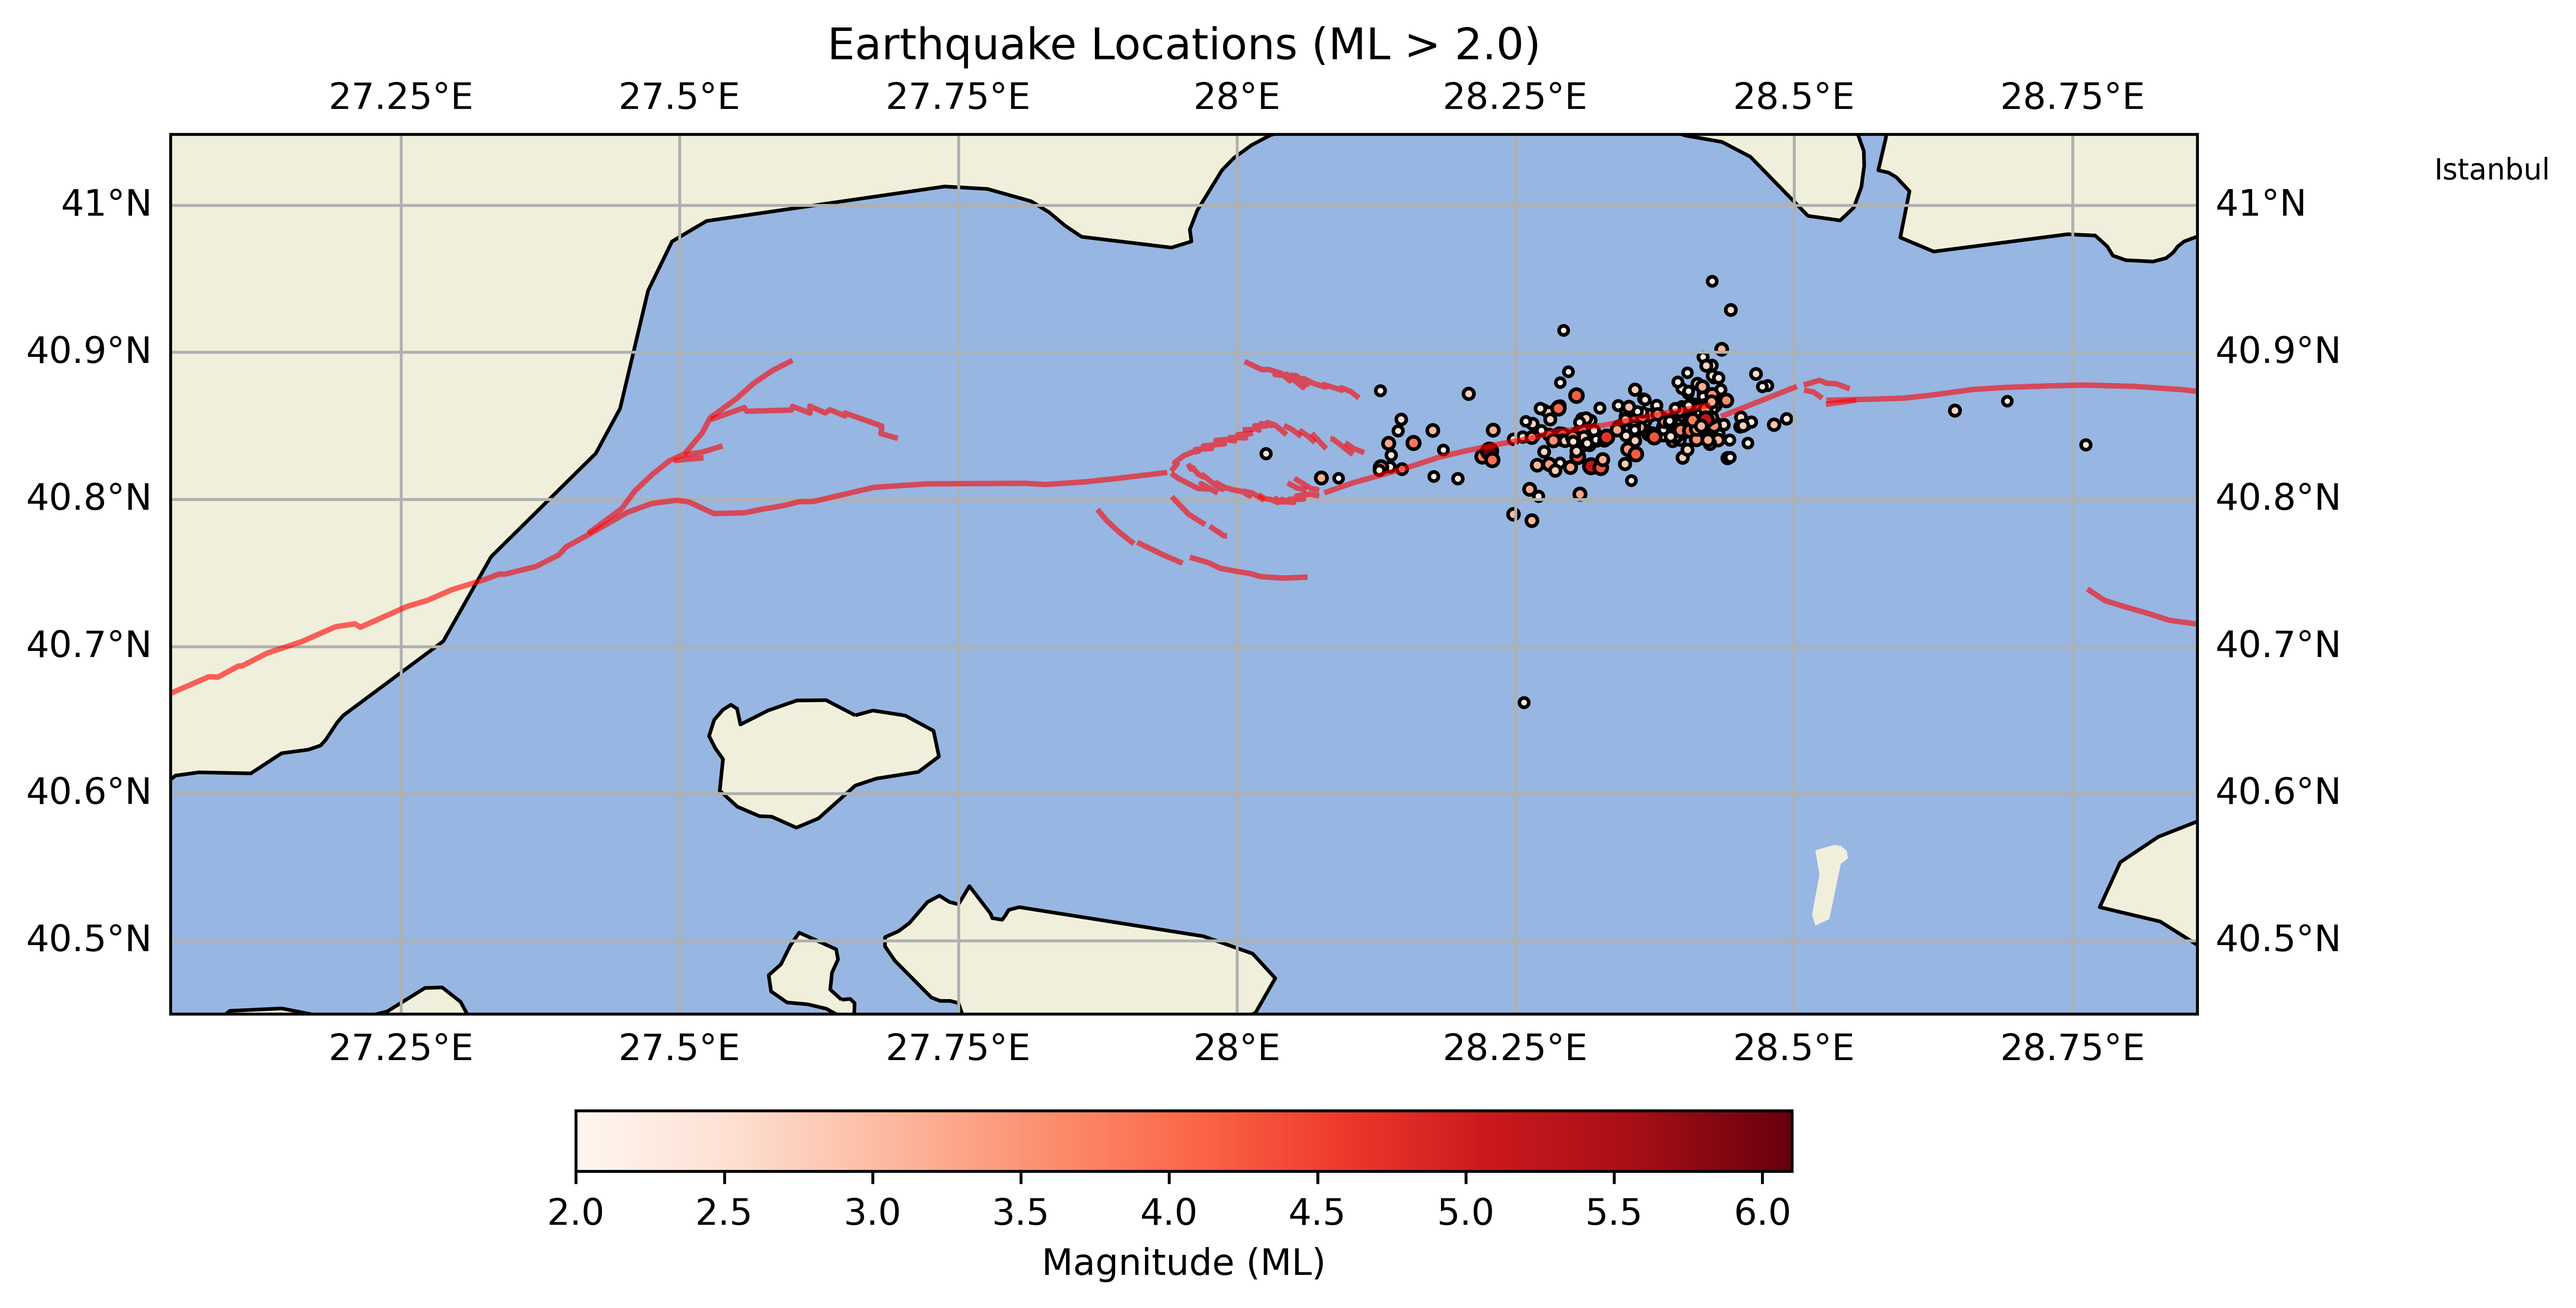
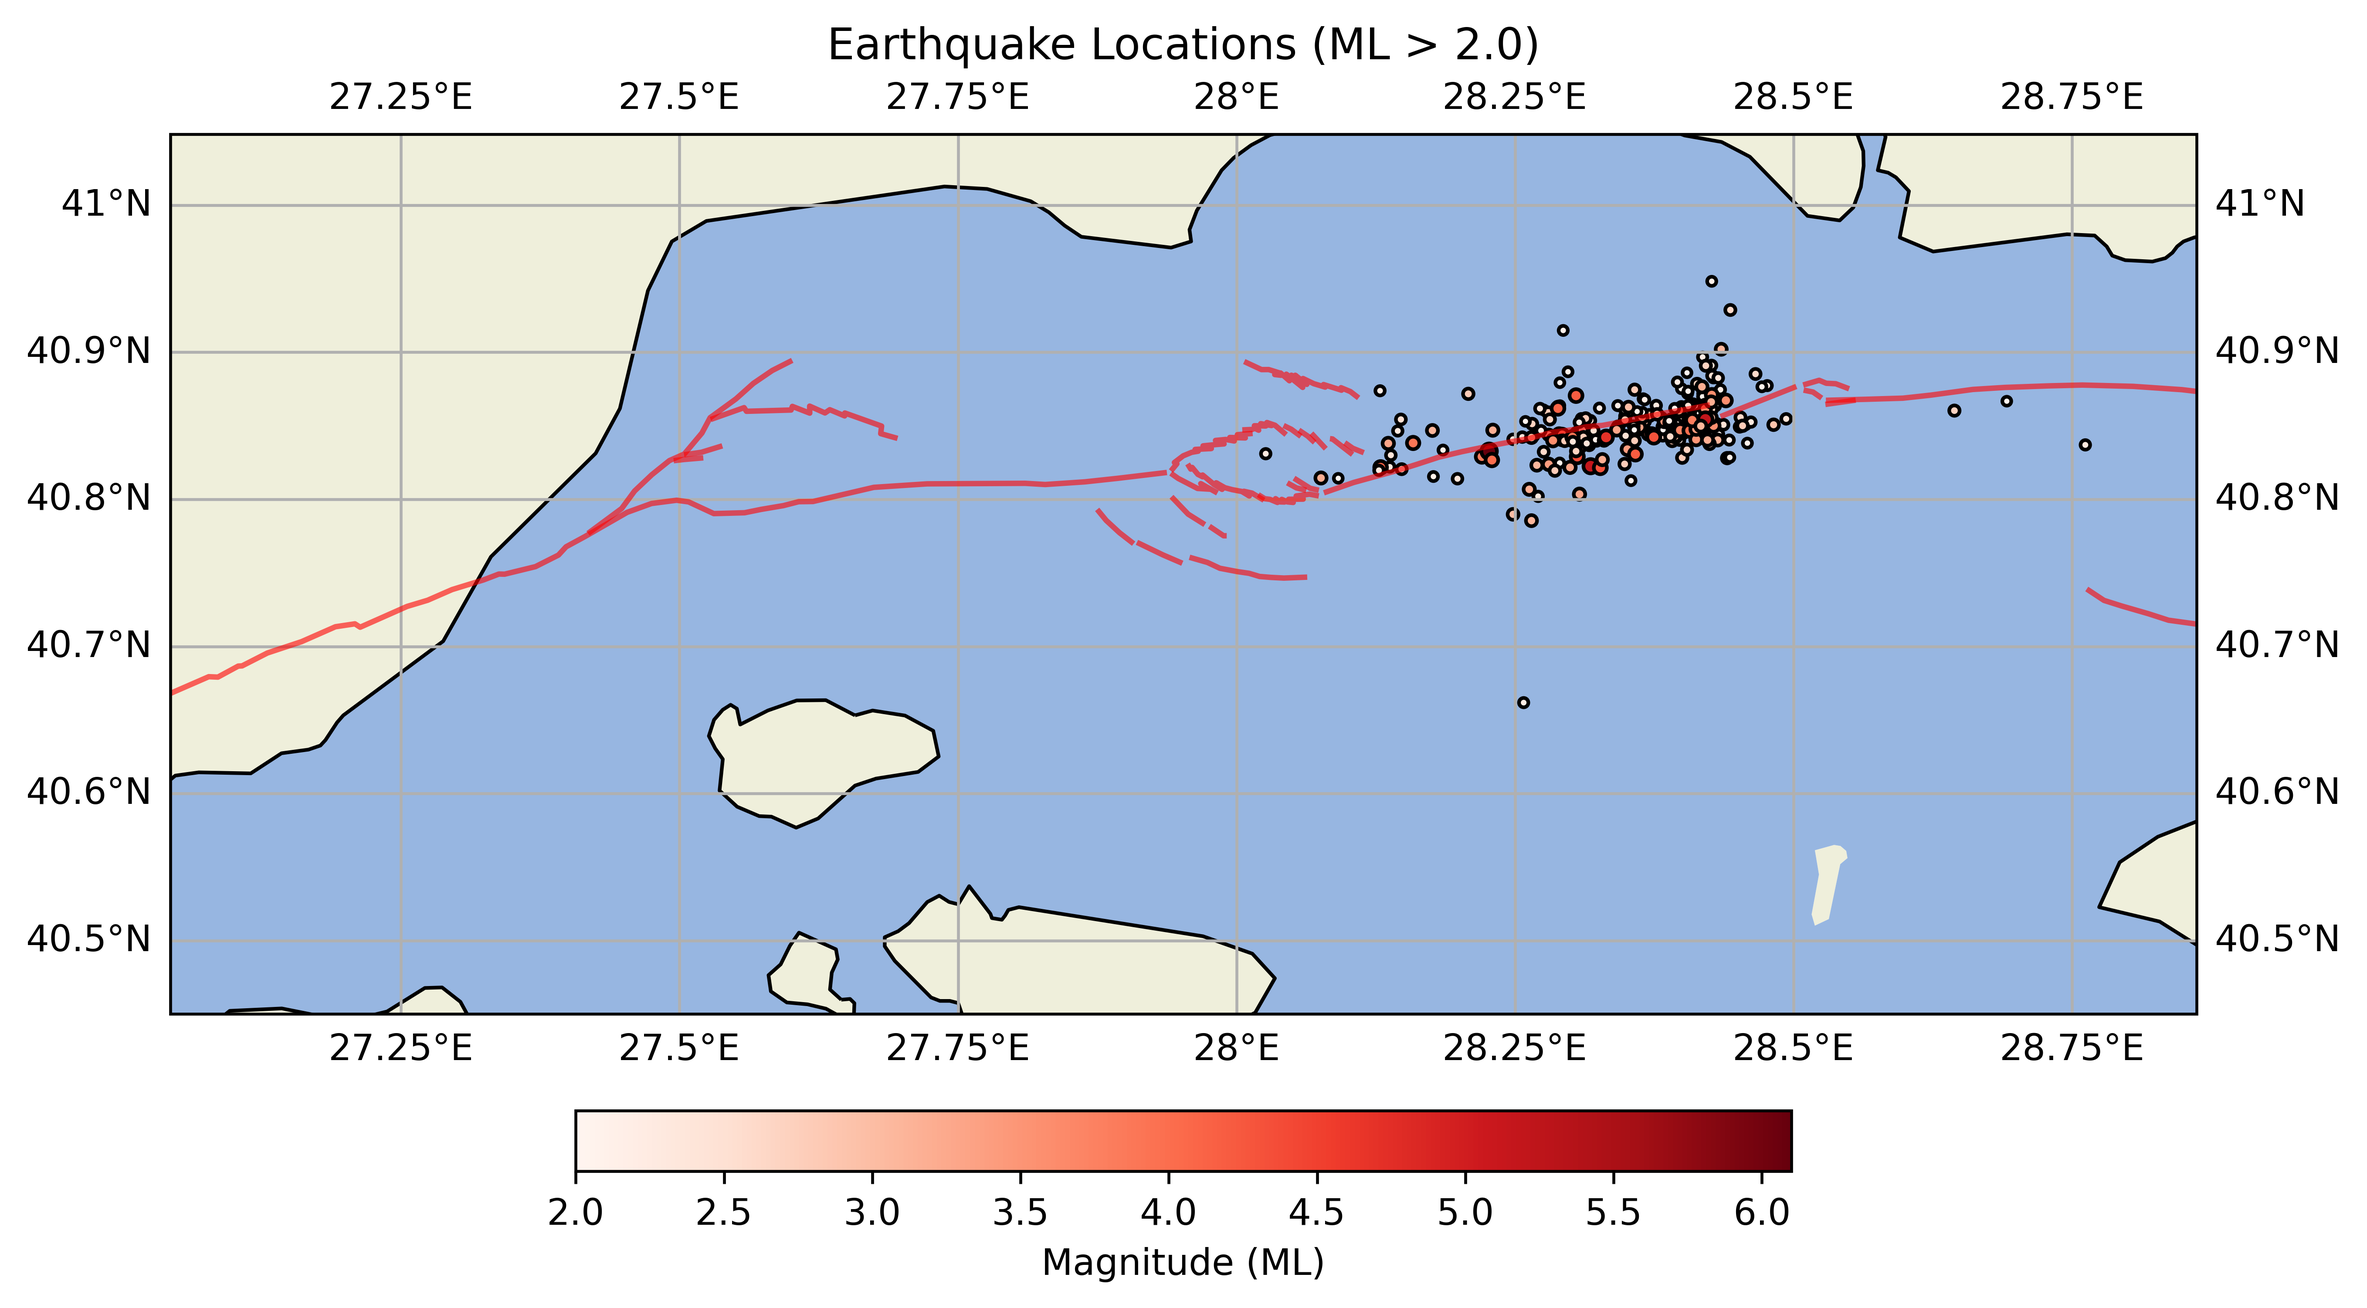
Added detailed view to readme

diff --git a/process_earthquakes.py b/process_earthquakes.py
@@ -30,10 +30,11 @@ def plotData(df, near_istanbul=None, min_magnitude=3.0, ax_offset = 0.8, fileNam
     ax.add_feature(cfeature.COASTLINE)
     ax.gridlines(draw_labels=True)
 
-    for idx, row in near_istanbul.iterrows():
-        city_point = row['geometry']
-        ax.plot(city_point.x, city_point.y, marker='o', color='blue', markersize=5, transform=ccrs.PlateCarree())
-        ax.text(city_point.x + 0.1, city_point.y, row['NAME'], fontsize=8, transform=ccrs.PlateCarree())
+    if(near_istanbul is not None):
+        for idx, row in near_istanbul.iterrows():
+            city_point = row['geometry']
+            ax.plot(city_point.x, city_point.y, marker='o', color='blue', markersize=5, transform=ccrs.PlateCarree())
+            ax.text(city_point.x + 0.1, city_point.y, row['NAME'], fontsize=8, transform=ccrs.PlateCarree())
 
     df = df[df['Magnitude'] >= min_magnitude]
 
@@ -69,4 +70,4 @@ if __name__ == "__main__":
     df = pd.read_csv("data/marmara_earthquakes.csv")
 
     plotData(df, min_magnitude=3.0, near_istanbul=near_istanbul)
-    plotData(df, min_magnitude=2.0, near_istanbul=near_istanbul, ax_offset=0.1, fileName="last_earthquakes_istanbul_zoomed.png")
+    plotData(df, min_magnitude=2.0, near_istanbul=None, ax_offset=0.1, fileName="last_earthquakes_istanbul_zoomed.png")

diff --git a/README.md b/README.md
@@ -1,6 +1,7 @@
 ## 🌍 Earthquakes in Istanbul
 
 ![Marmara'daki son depremler](last_earthquakes_istanbul.png)
+![Marmara'daki son depremler - detay](last_earthquakes_istanbul_zoomed.png)
 
 A lightweight tool to visualize recent earthquakes and fault lines in Istanbul on the map, using data from the Kandilli Observatory and Earthquake Research Institute (KOERI). 
 Designed to highlight seismic activity since April 23, 2025, with optional scraping from the live KOERI server.
